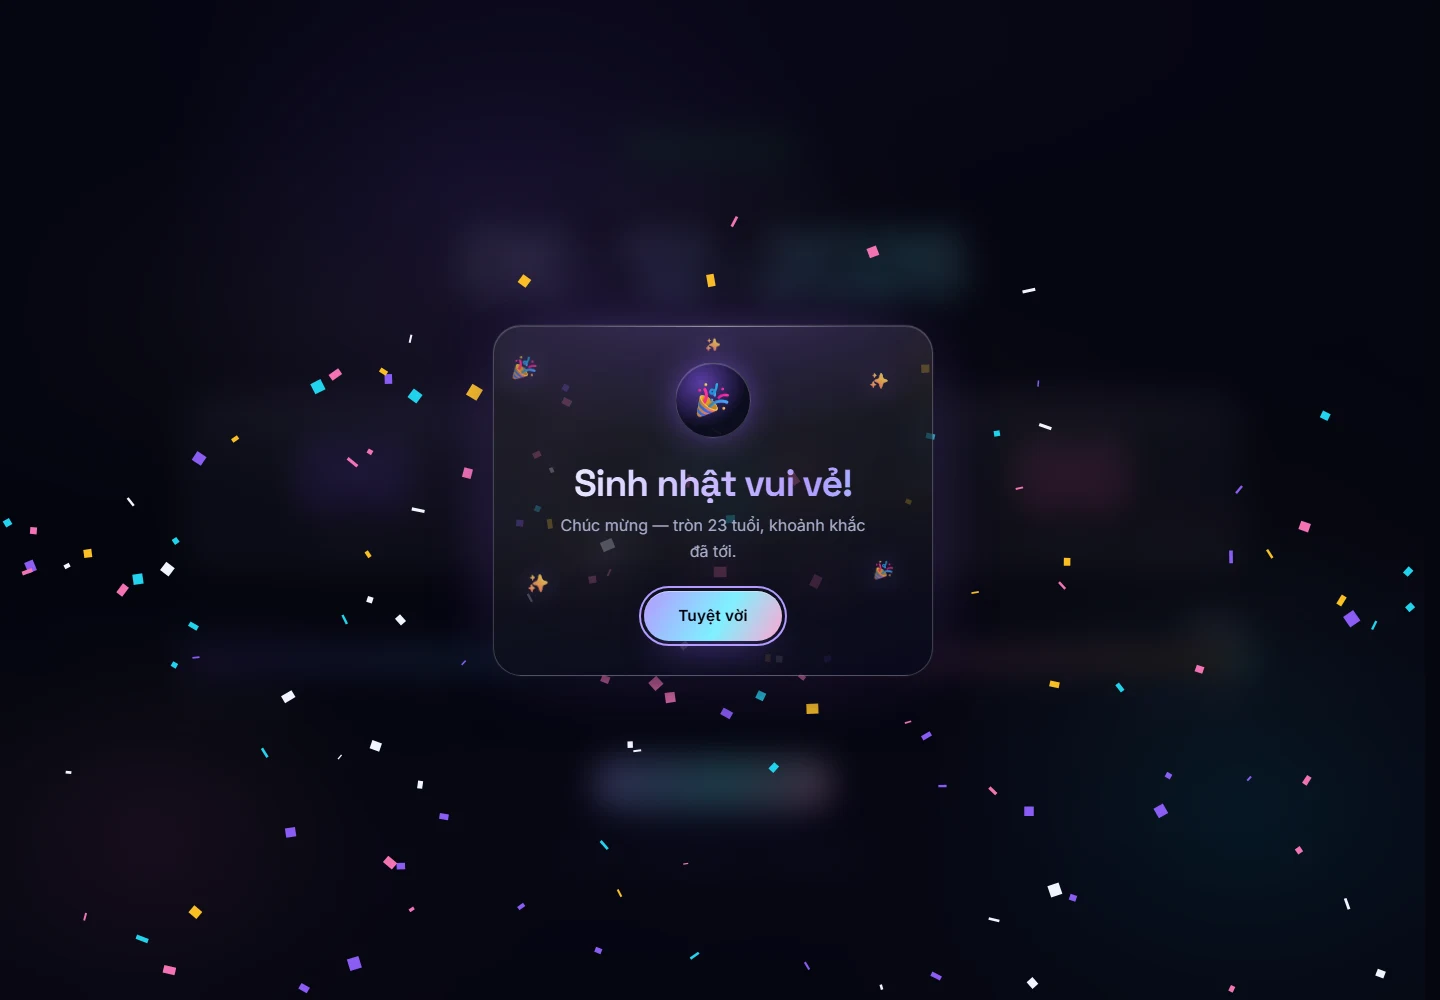
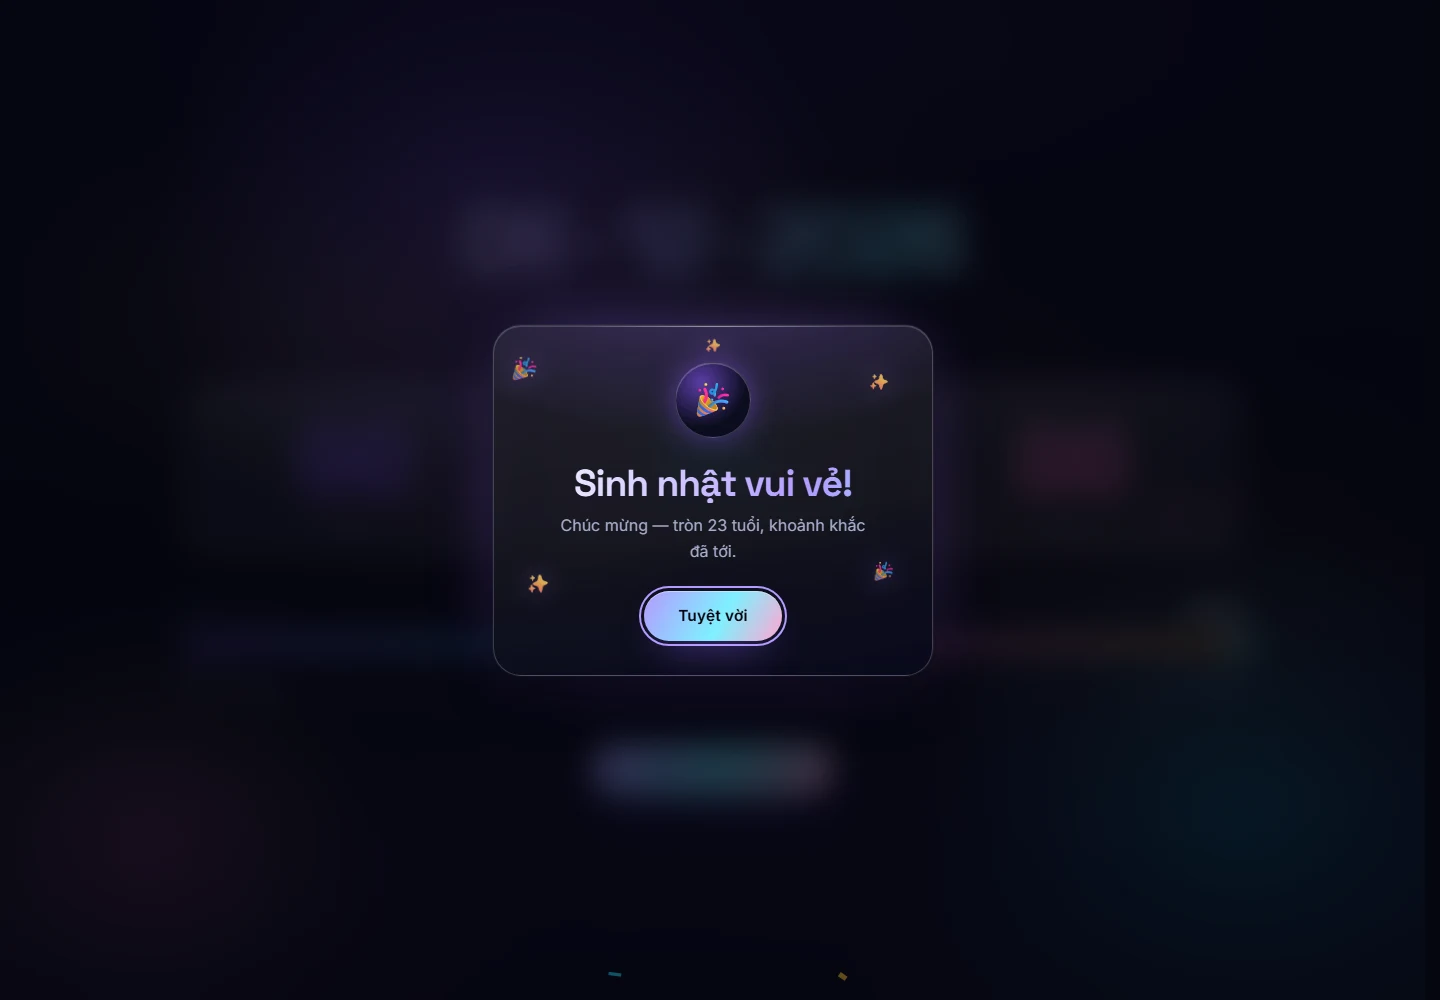
feat: float the countdown title and simplify the hero
- remove the status badge, the eyebrow line and the footer note

- add a 6s translateY loop to the title, disabled under reduced motion

diff --git a/src/App.css b/src/App.css
@@ -35,60 +35,15 @@
   display: flex;
   flex-direction: column;
   align-items: center;
-  gap: 18px;
+  gap: 20px;
   max-width: 920px;
 }
 
-.hero__badge {
-  display: inline-flex;
-  align-items: center;
-  gap: 10px;
-  padding: 9px 16px 9px 13px;
-  border: 1px solid color-mix(in srgb, var(--violet) 30%, transparent);
-  border-radius: var(--r-pill);
-  background: color-mix(in srgb, var(--violet) 10%, transparent);
-  color: var(--violet-soft);
-  font-size: 0.72rem;
-  font-weight: 600;
-  letter-spacing: 0.18em;
-  text-transform: uppercase;
-  -webkit-backdrop-filter: blur(12px);
-  backdrop-filter: blur(12px);
-  animation: hero-in 0.8s var(--ease-out) both;
-}
-
-.hero__pulse {
-  position: relative;
-  width: 7px;
-  height: 7px;
-  border-radius: 50%;
-  background: currentColor;
-  box-shadow: 0 0 12px currentColor;
-}
-
-.hero__pulse::after {
-  content: '';
-  position: absolute;
-  inset: -4px;
-  border-radius: 50%;
-  border: 1px solid currentColor;
-  opacity: 0.55;
-  animation: hero-pulse 2.4s var(--ease-out) infinite;
-}
-
-.hero__badge[data-state='expired'] {
-  border-color: color-mix(in srgb, var(--success) 35%, transparent);
-  background: color-mix(in srgb, var(--success) 10%, transparent);
-  color: var(--success);
-}
-
-.hero__eyebrow {
-  color: var(--ink-faint);
-  font-size: clamp(0.7rem, 1.3vw, 0.82rem);
-  font-weight: 600;
-  letter-spacing: 0.34em;
-  text-transform: uppercase;
-  animation: hero-in 0.8s var(--ease-out) 0.07s both;
+/* Outer wrapper so the slow float never fights the title's one-shot entrance
+   or the sweep, which needs to clip inside `.hero__title`. */
+.hero__float {
+  animation: hero-float 6s ease-in-out 1.2s infinite alternate;
+  will-change: transform;
 }
 
 /* Static gradient: a looping background-position animation repaints the whole
@@ -262,29 +217,6 @@
   height: 100%;
 }
 
-/* ---------- footnote ---------- */
-
-.footnote {
-  display: flex;
-  flex-wrap: wrap;
-  align-items: center;
-  justify-content: center;
-  gap: 10px;
-  color: var(--ink-faint);
-  font-size: 0.74rem;
-  font-weight: 500;
-  letter-spacing: 0.14em;
-  text-transform: uppercase;
-}
-
-.footnote__dot {
-  width: 3px;
-  height: 3px;
-  border-radius: 50%;
-  background: currentColor;
-  opacity: 0.6;
-}
-
 /* ---------- keyframes ---------- */
 
 @keyframes hero-in {
@@ -298,18 +230,14 @@
   }
 }
 
-@keyframes hero-pulse {
-  0% {
-    transform: scale(0.6);
-    opacity: 0.7;
+/* Slow buoyancy on the headline. Transform only, and it starts after the
+   one-shot entrance (0.14s + 0.9s) has settled. */
+@keyframes hero-float {
+  from {
+    transform: translateY(0);
   }
-  70% {
-    transform: scale(1.9);
-    opacity: 0;
-  }
-  100% {
-    transform: scale(1.9);
-    opacity: 0;
+  to {
+    transform: translateY(-9px);
   }
 }
 
@@ -343,13 +271,7 @@
   }
 
   .hero {
-    gap: 14px;
-  }
-
-  .hero__badge {
-    font-size: 0.66rem;
-    letter-spacing: 0.14em;
-    padding: 8px 14px 8px 11px;
+    gap: 16px;
   }
 
   .actions {
@@ -361,11 +283,6 @@
     flex: 1 1 160px;
     max-width: 260px;
     padding: 0 22px;
-  }
-
-  .footnote {
-    font-size: 0.68rem;
-    letter-spacing: 0.1em;
   }
 }
 
@@ -391,16 +308,15 @@
 /* ---------- reduced motion ---------- */
 
 @media (prefers-reduced-motion: reduce) {
-  .hero__badge,
-  .hero__eyebrow,
   .hero__title,
   .hero__sub {
     animation: none;
   }
 
-  .hero__pulse::after {
+  .hero__float {
     animation: none;
-    opacity: 0;
+    transform: none;
+    will-change: auto;
   }
 
   /* The sweep is decoration only; park it hidden rather than letting it snap

diff --git a/src/App.jsx b/src/App.jsx
@@ -25,9 +25,6 @@ export default function App() {
     setIsCelebrating(true);
   }, [isExpired]);
 
-  const state = isExpired ? 'expired' : 'running';
-  const statusText = isExpired ? 'Sinh nhật vui vẻ' : 'Đang đếm ngược';
-
   return (
     <div className="app">
       <BackgroundFX
@@ -38,14 +35,9 @@ export default function App() {
 
       <main className="stage">
         <header className="hero">
-          <p className="hero__badge" data-state={state}>
-            <span className="hero__pulse" aria-hidden="true" />
-            {statusText}
-          </p>
-
-          <p className="hero__eyebrow">Đếm ngược sinh nhật</p>
-
-          <h1 className="hero__title">{TARGET_LABEL}</h1>
+          <div className="hero__float">
+            <h1 className="hero__title">{TARGET_LABEL}</h1>
+          </div>
 
           <p className="hero__sub">
             {isExpired
@@ -76,12 +68,6 @@ export default function App() {
             </button>
           </div>
         ) : null}
-
-        <p className="footnote">
-          <span>GMT+7 · Asia/Bangkok</span>
-          <span className="footnote__dot" aria-hidden="true" />
-          <span>{isExpired ? 'Đã đến đích' : 'Đồng bộ mỗi phút'}</span>
-        </p>
       </main>
 
       <Celebration open={isCelebrating} onDismiss={() => setIsCelebrating(false)} />

diff --git a/DESIGN_CONTRACT.md b/DESIGN_CONTRACT.md
@@ -193,7 +193,7 @@ expensive thing on this page.
 
 | Prefix | Area |
 |---|---|
-| `.app .stage .hero .hero__* .actions .btn .btn--* .footnote .status-dot` | App shell |
+| `.app .stage .hero .hero__* .actions .btn .btn--* .status-dot` | App shell |
 | `.cg .cg__* .cc .cc__* .odo .odo__*` | Countdown UI |
 | `.bgfx .bgfx__* .pr .pr__* .cel .cel__* .nb .nb__*` | Background & atmosphere |
 
@@ -202,9 +202,12 @@ BEM-ish, one block per component file. No global element selectors.
 ## 6. Motion rules
 
 - Transform / opacity / filter only. Never animate layout properties (`width`, `height`, `top`).
-- Entrance stagger: hero children fade up (0.8s, 0/70/140/210ms), cards `translate 28px → 0`,
+- Entrance stagger: hero title (0.9s, 140ms) then subtitle (0.9s, 210ms), cards `translate 28px → 0`,
   `opacity 0 → 1`, delay `i * 80ms`, duration `800ms`, ease `--ease-out`,
   rail last (`y 18px → 0`, 0.8s, delay 500ms). Hero first, rail last. One-shot only.
+- The hero title keeps floating after entrance: `.hero__float`, `translateY(0 → -9px)`,
+  `6s ease-in-out 1.2s infinite alternate`, transform only, disabled under reduced motion.
+  It is the only looping element above the background layer.
 - Cards are static after entrance. The only ongoing card motion is the odometer roll when
   a value changes.
 - Buttons: brightness may change on pointer over; press `scale .98`; focus 2px accent
